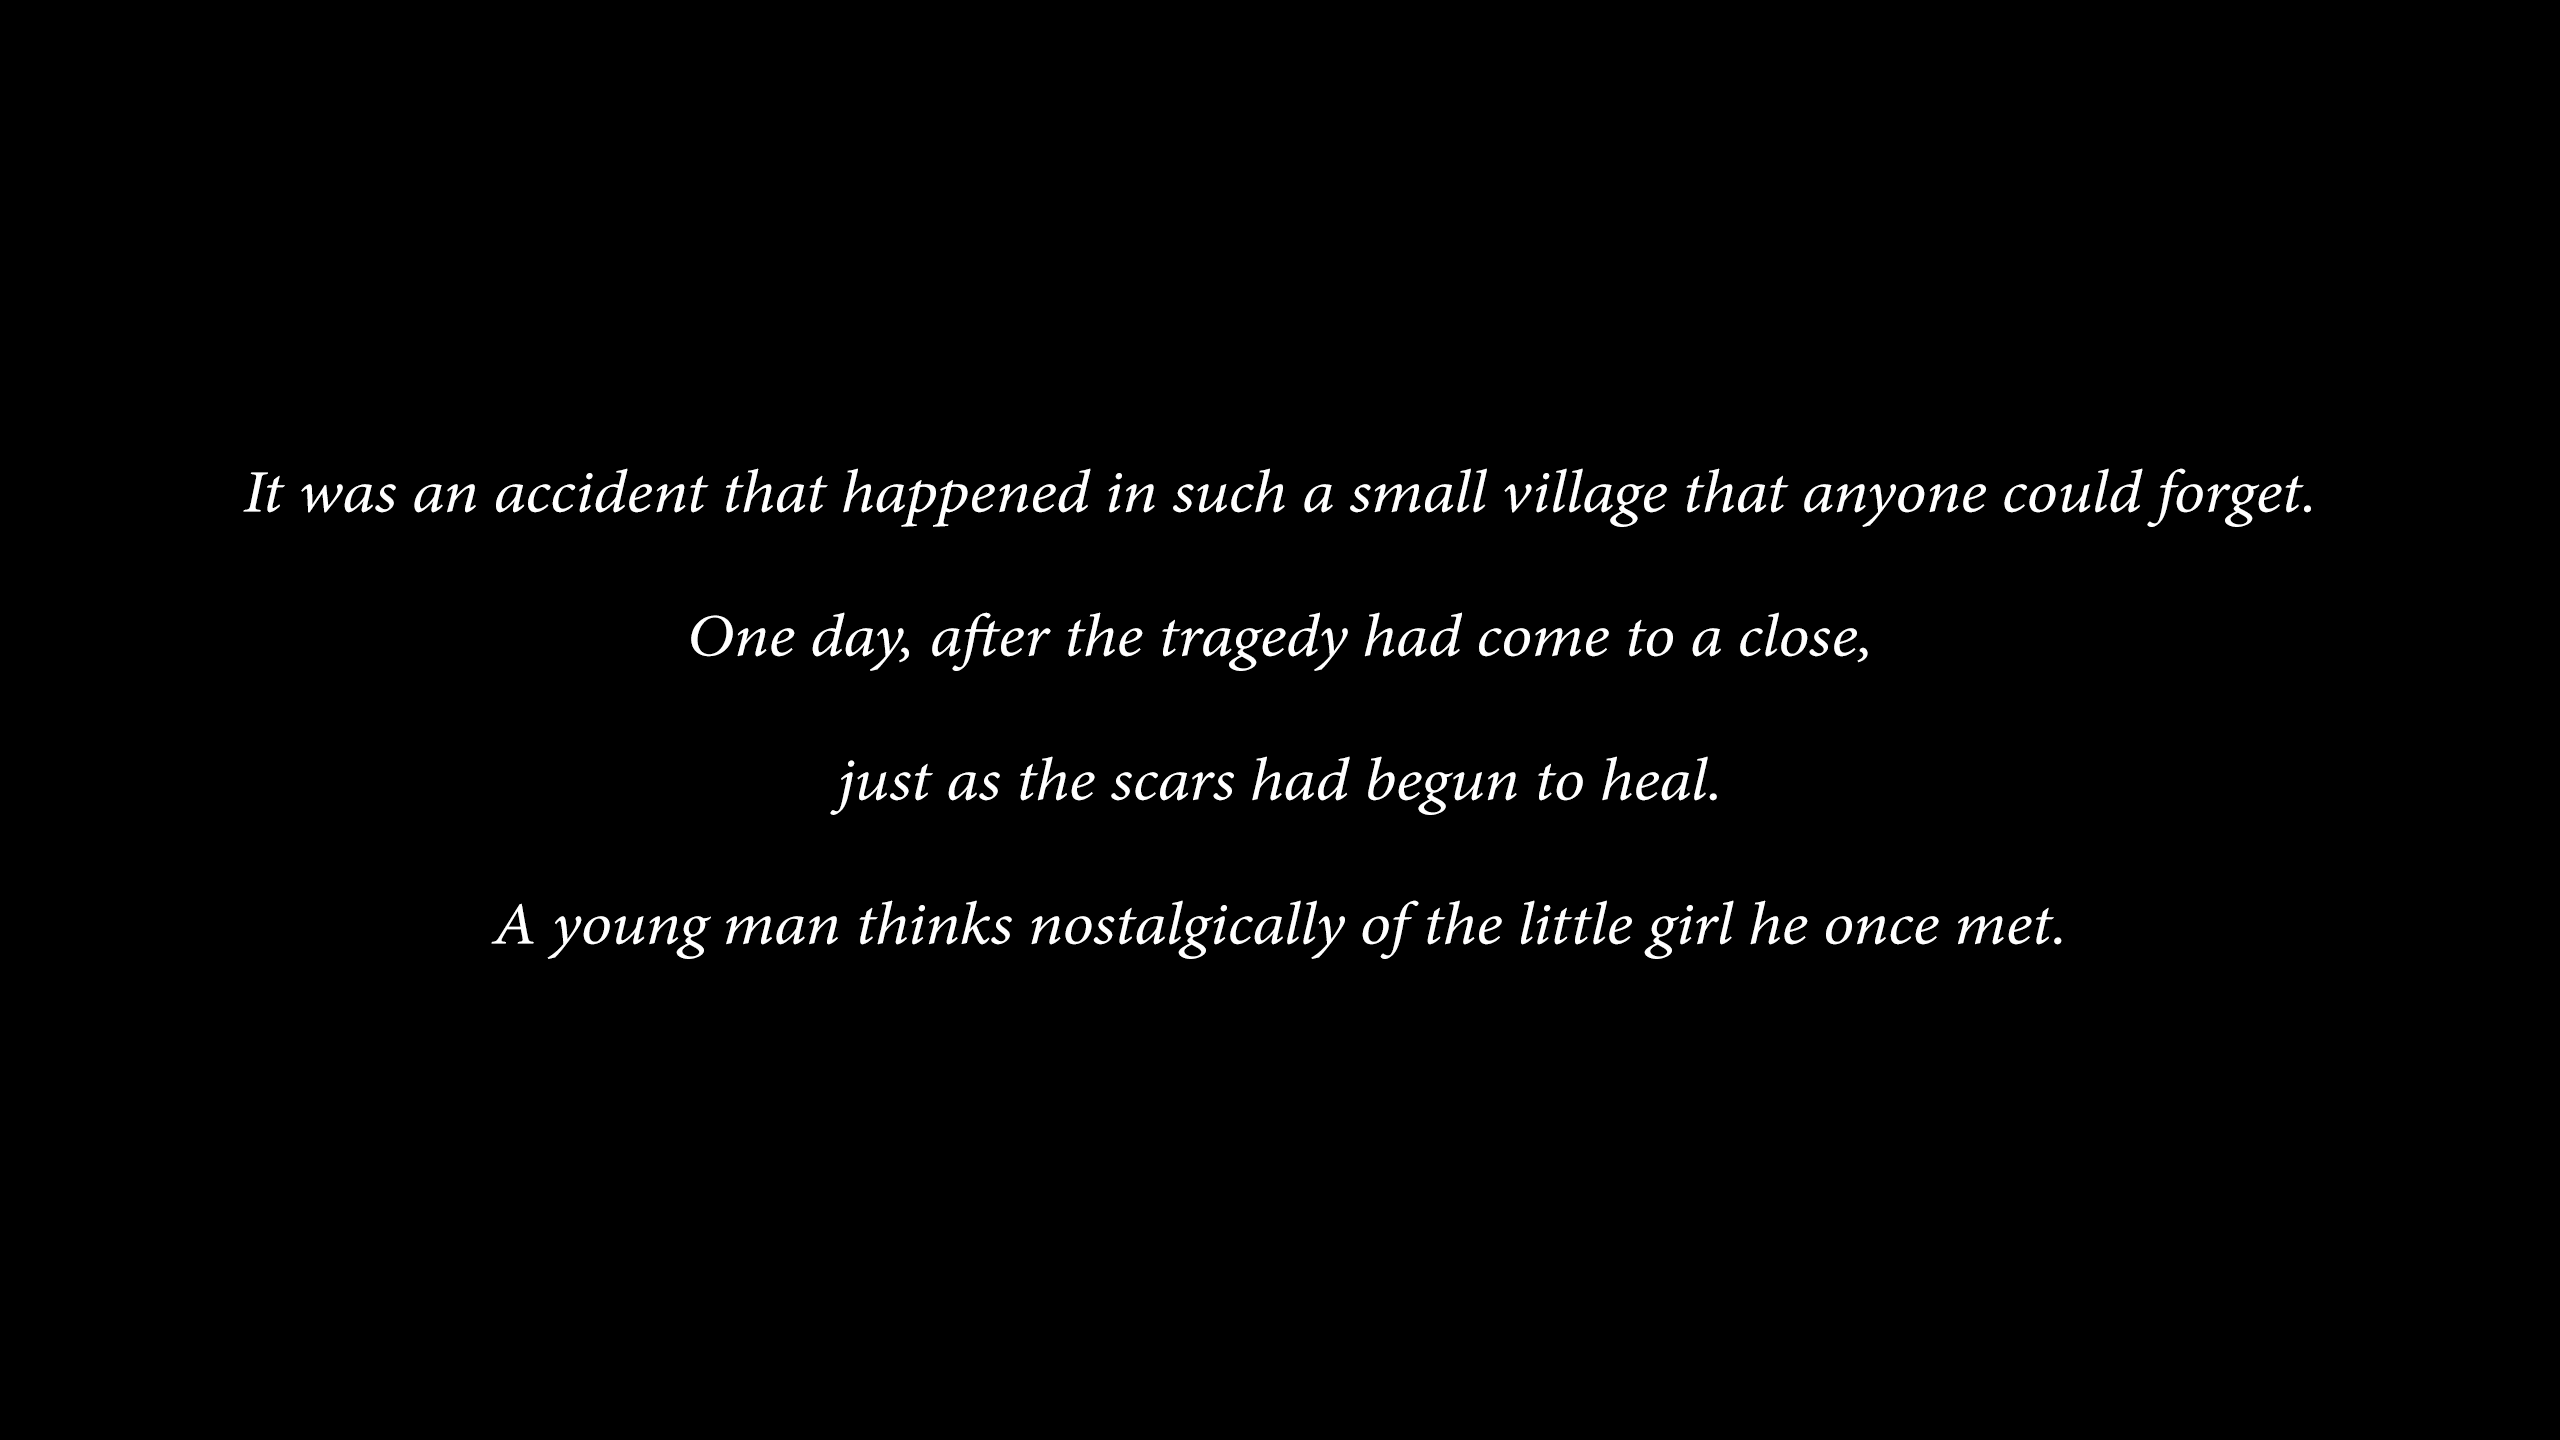
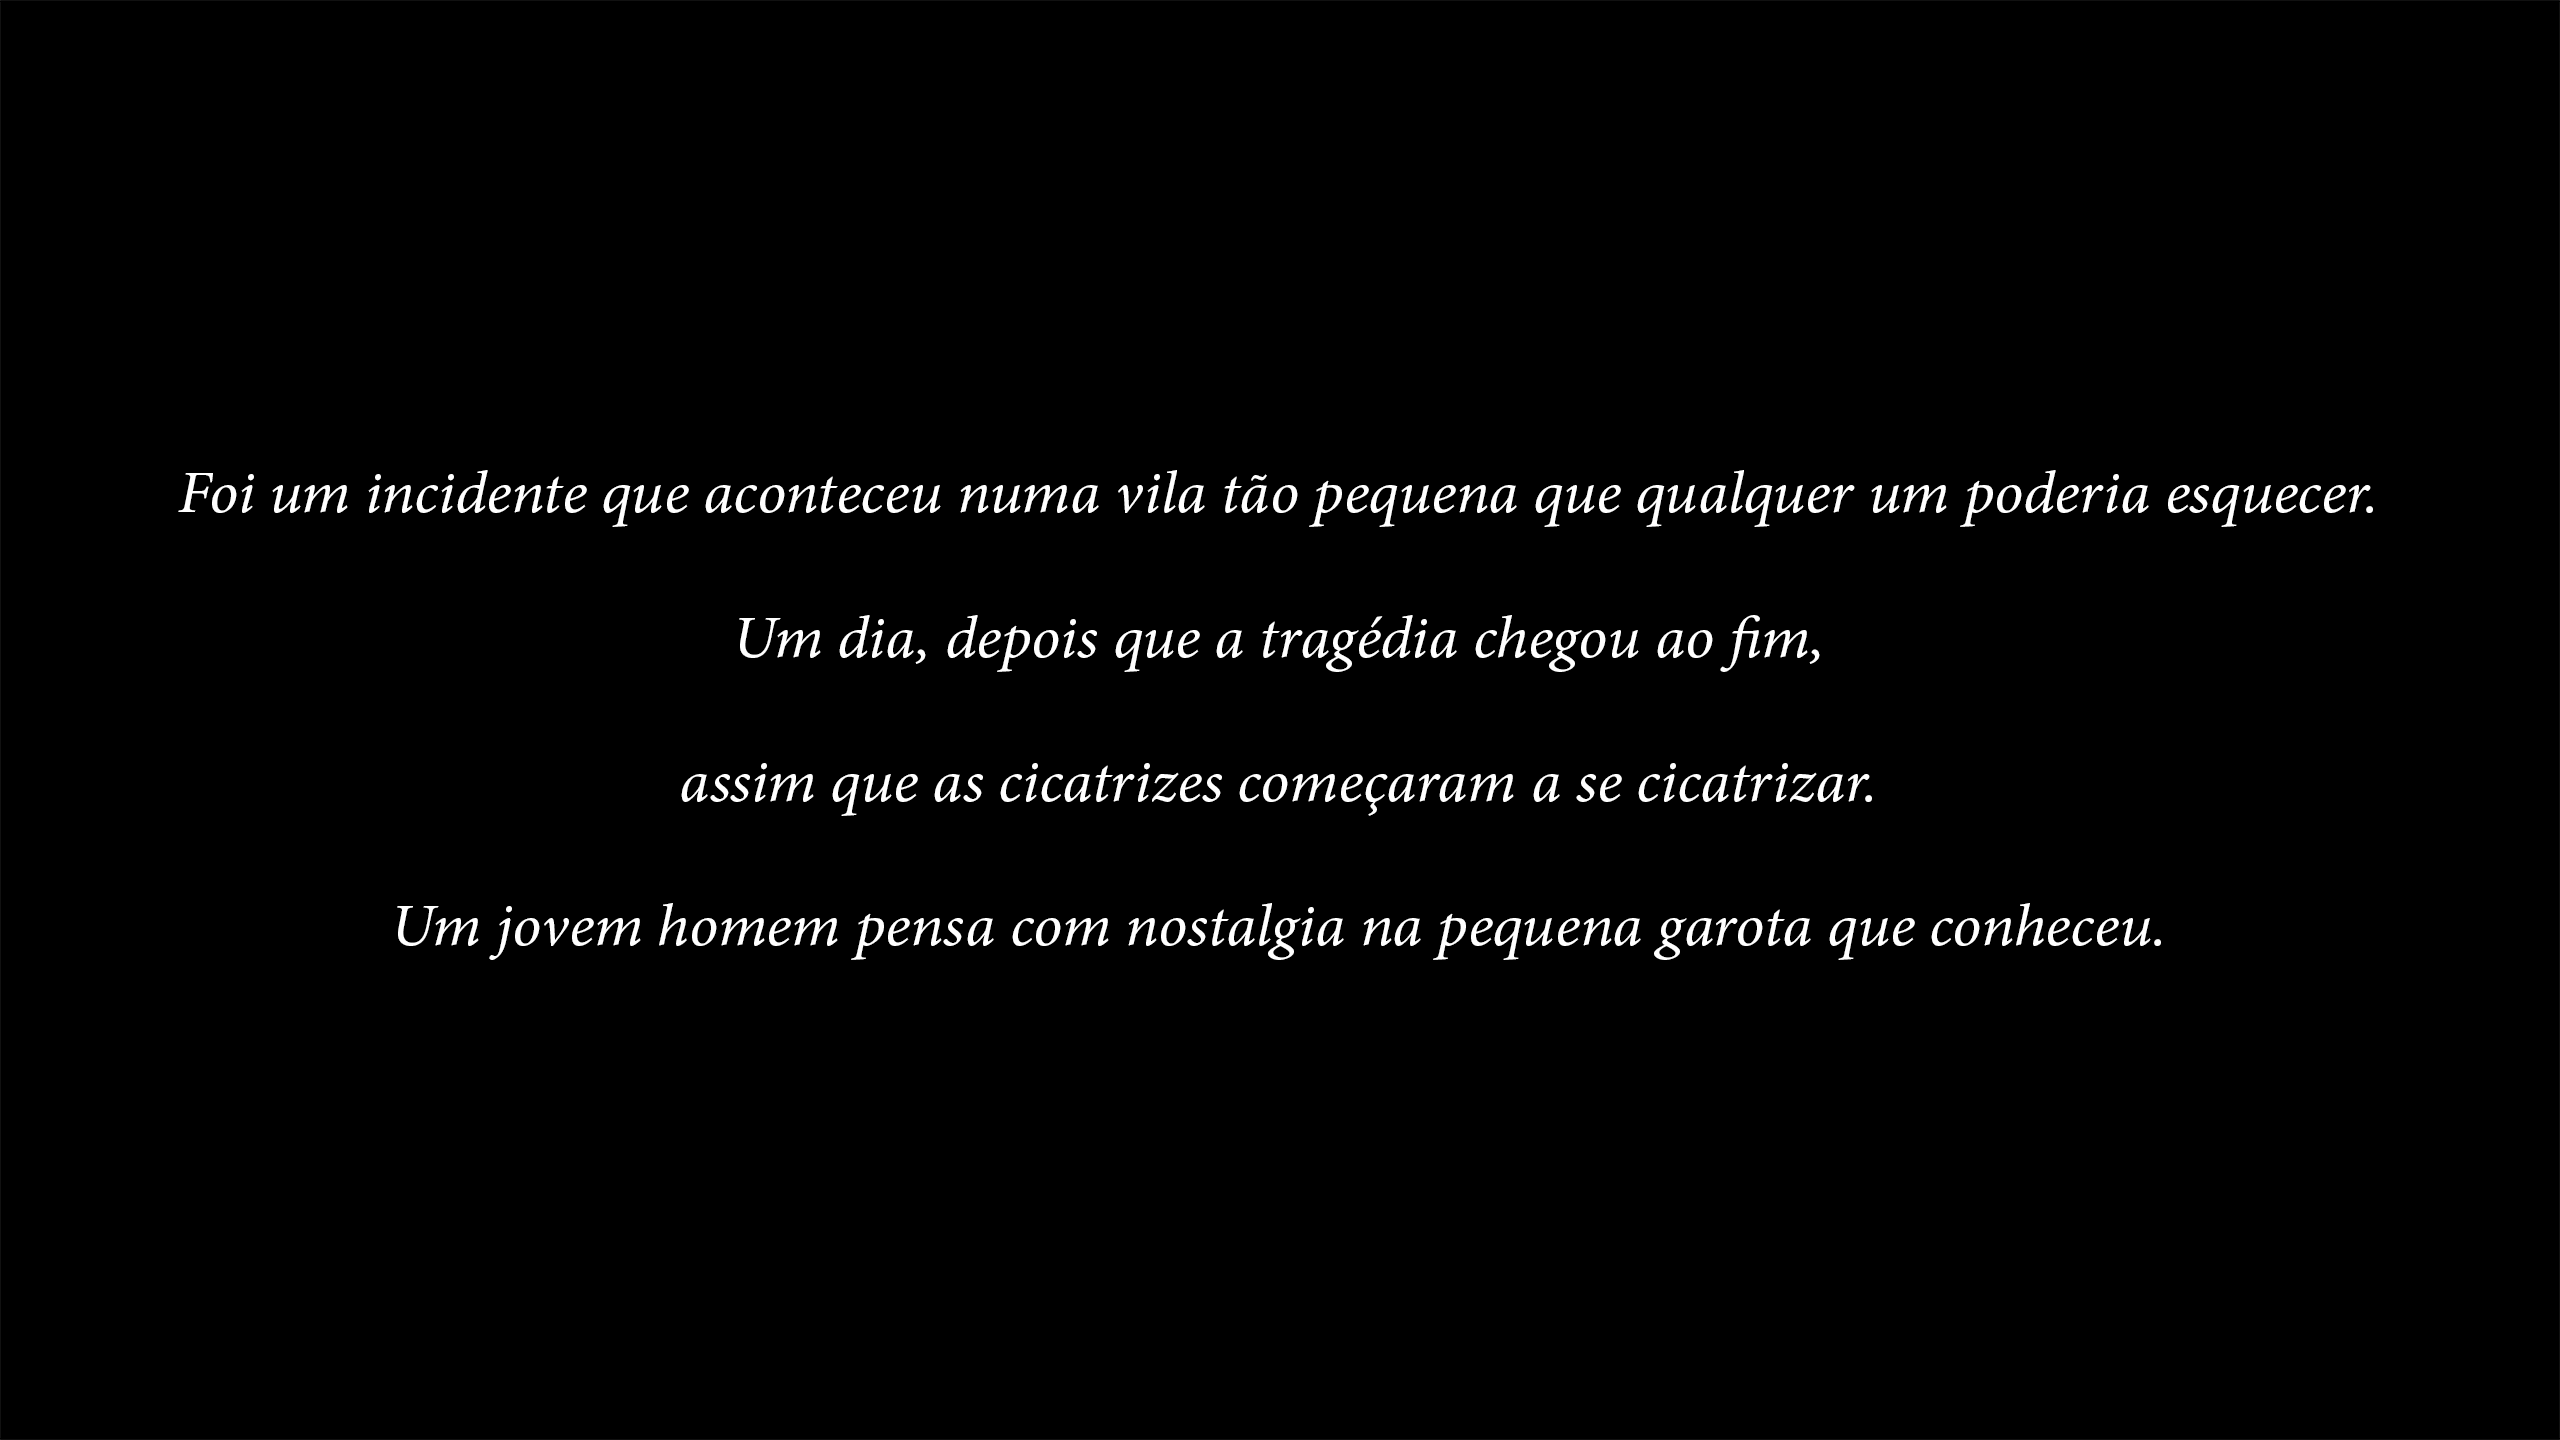
Translated monologue

diff --git a/README.md b/README.md
@@ -1,7 +1,9 @@
 # Higurashi When They Cry Hou - Cap.4 Himatsubushi
 
-Tradução do quarto capítulo de _Higurashi When They Cry_ da [_Higurashi Eternal_](https://higurashieternal.wordpress.com/) adaptada para ser totalmente compatível com o [_07th-Mod_](https://07th-mod.com).
+Tradução de _Higurashi When They Cry Hou_ da _Higurashi Eternal_ adaptada para ser compatível com o [_07th-Mod_](https://07th-mod.com).
 
 ## Créditos
 
-[Higurashi Eternal](https://higurashieternal.wordpress.com/) - Liberado o uso dos textos e imagens das suas traduções de Higurashi no Naku Koro ni.
+[Higurashi Eternal](https://higurashieternal.wordpress.com/) - Tradução do jogo.
+
+[lunhas](https://www.youtube.com/@lunhasz) - Tradução do monólogo.
